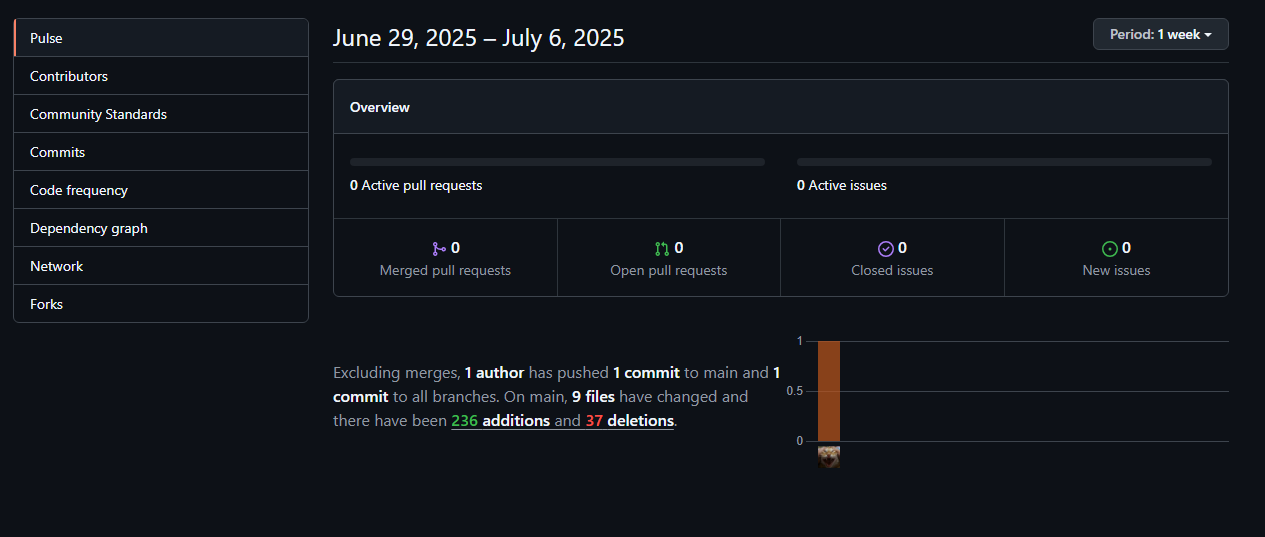
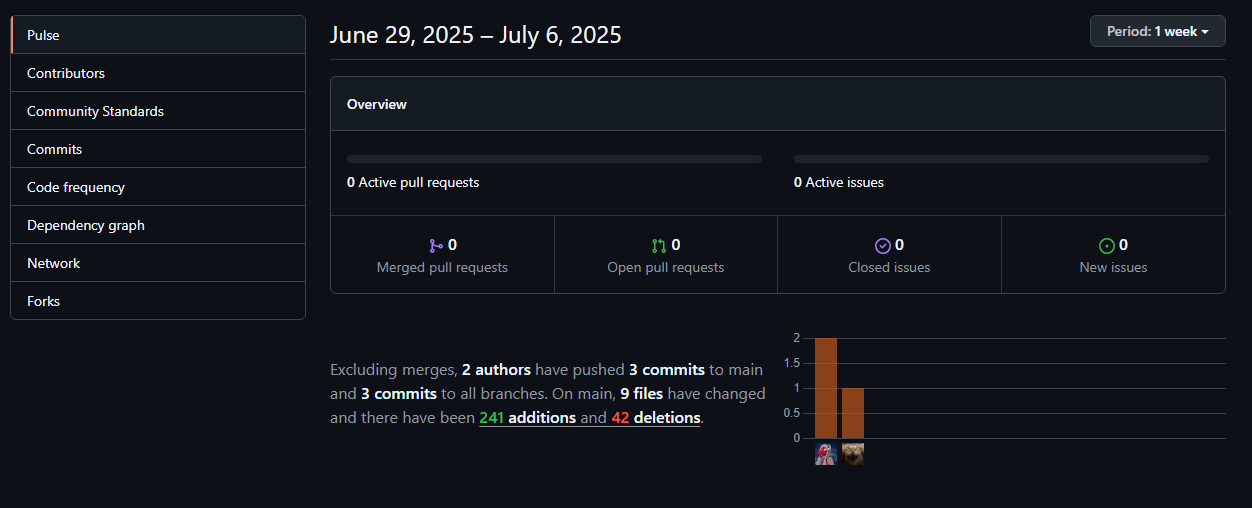
feat: add new about the product version

diff --git a/README.md b/README.md
@@ -165,22 +165,31 @@ Carlos Oswaldo Casimiro Fernandez
 
 <p>La implementación de ramas paralelas en el control de versiones permitió que los miembros del equipo desarrollaran distintos componentes del proyecto de forma simultánea, abarcando la Landing Page, la aplicación web, la app móvil y el nodo Edge. Esta metodología colaborativa favoreció una integración continua de los avances, reduciendo los conflictos en el código y asegurando una mejor distribución de las responsabilidades. De esta manera, todos los integrantes pudieron participar activamente en el desarrollo del producto final correspondiente al sprint, garantizando un proceso ágil, coordinado y eficiente.</p>
 
+  - **Landing Page**
+
+  ![image]( images/landing_page_insh.PNG)
+  ![image]( images/new_insights_1.PNG)
+
   - **Frontend Web Application**
-![image]( images/web_1.jpeg)
-![image]( images/new_insights_2.jpeg)
+
+  ![image]( images/web_1.jpeg)
+  ![image]( images/new_insights_2.jpeg)
 
 
   - **Mobile Application**
+
   ![image]( images/mobile_1.jpeg)
   ![image]( images/mobile_2.jpeg)
 
 
   - **Edge Node**
+
   ![image]( images/new_insights_5.jpeg)
   ![image]( images/edge_1.jpeg)
 
 
   - **Embebbed App**
+
   ![image]( images/new_insights_5.PNG)
   ![image]( images/embebbed-network.PNG)
 
@@ -6399,10 +6408,27 @@ En esta sección se presentan los commits más relevantes realizados en el repos
         </tr>
     </thead>
     <tbody>
+        <tr>
             <td>AlquilaEZ/alquilafacil-embedded-app</td>
             <td>/main</td>
             <td>2558fef</td>
             <td>feat: add sound sensor and fixed edge connection</td>
+            <td>-</td>
+            <td>06/07/2025</td>
+        </tr>
+        <tr>
+            <td>AlquilaEZ/alquilafacil-embedded-app</td>
+            <td>/main</td>
+            <td>566c67e</td>
+            <td>refactor: fix inner messages</td>
+            <td>-</td>
+            <td>06/07/2025</td>
+        </tr>
+        <tr>
+            <td>AlquilaEZ/alquilafacil-embedded-app</td>
+            <td>/main</td>
+            <td>6717627</td>
+            <td>refactor: fix outer messages</td>
             <td>-</td>
             <td>06/07/2025</td>
         </tr>
@@ -6517,42 +6543,10 @@ En esta sección se presentan los commits más relevantes realizados en el repos
             <tr>
                 <td>AlquilaEZ/alquilafacil-landing-page</td>
                 <td>/main</td>
-                <td>2e41aeb</td>
-                <td>feat: video about-the-team</td>
+                <td>a775ec6</td>
+                <td>feat: add new version of about the product video</td>
                 <td>-</td>
-                <td>04/07/2025</td>
-            </tr>
-            <tr>
-                <td>AlquilaEZ/alquilafacil-landing-page</td>
-                <td>/main</td>
-                <td>5b75638</td>
-                <td>refactor: fix responsive</td>
-                <td>-</td>
-                <td>04/07/2025</td>
-            </tr>
-            <tr>
-                <td>AlquilaEZ/alquilafacil-landing-page</td>
-                <td>/main</td>
-                <td>7352aca</td>
-                <td>feat: add build command</td>
-                <td>-</td>
-                <td>04/07/2025</td>
-            </tr>
-            <tr>
-                <td>AlquilaEZ/alquilafacil-landing-page</td>
-                <td>/main</td>
-                <td>2e33373</td>
-                <td>feat: add deployment configuration</td>
-                <td>-</td>
-                <td>04/07/2025</td>
-            </tr>
-            <tr>
-                <td>AlquilaEZ/alquilafacil-landing-page</td>
-                <td>/main</td>
-                <td>536d2b8</td>
-                <td>feat: add videos section</td>
-                <td>-</td>
-                <td>04/07/2025</td>
+                <td>06/07/2025</td>
             </tr>
         </tbody>
     </table>
@@ -7193,7 +7187,7 @@ En esta sección se presentan en evidencia el trabajo progresivo en el desarroll
 Para este apartado se visualiza la colaboración realizada para el cloud application, node edge, landing page, web application y documentacion técnica. Se utilizaron herramientas como GitHub para el control de versiones y Trello para la gestión de tareas.
 
 - Insights del repositorio de la Landing Page:
-  ![Insights Landing Page([URL]())](images/new_insights_1.jpeg)
+  ![Insights Landing Page([URL]())](images/new_insights_1.PNG)
 
 
 - Insights del repositorio de la Web Application:
